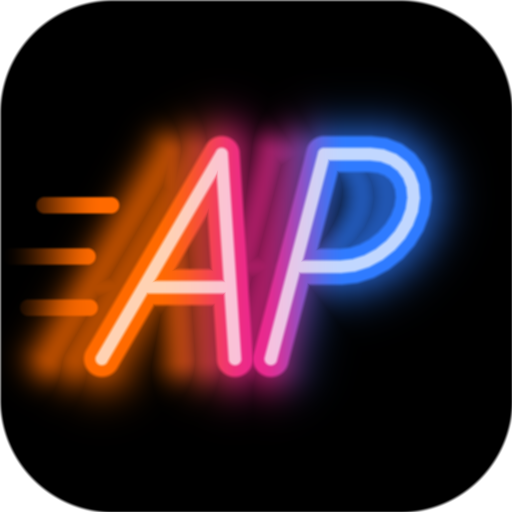
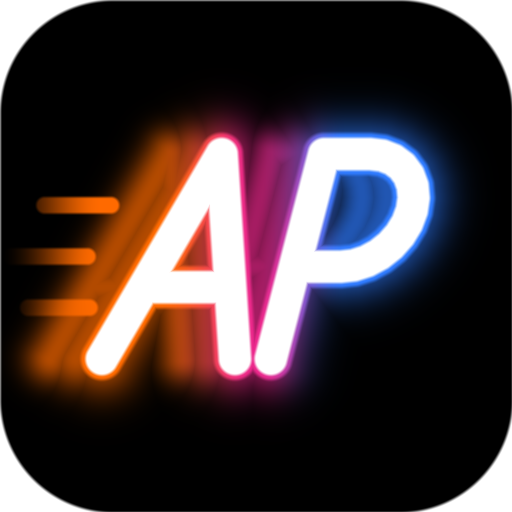
app 2.1.1: letras AP en blanco con estelas y resplandor neón (icono y pantalla de carga)

Changed region(s): [[0.1562, 0.25, 0.875, 0.75]]

diff --git a/index.html b/index.html
@@ -7,18 +7,31 @@
   <meta name="theme-color" content="#000000">
   <meta name="description" content="Nutrición y running personal">
   <link rel="manifest" href="manifest.webmanifest">
-  <link rel="icon" href="icons/icon-192.png?v=2">
-  <link rel="apple-touch-icon" href="icons/icon-192.png?v=2">
-  <link rel="stylesheet" href="style.css?v=2.1.0">
+  <link rel="icon" href="icons/icon-192.png?v=3">
+  <link rel="apple-touch-icon" href="icons/icon-192.png?v=3">
+  <link rel="stylesheet" href="style.css?v=2.1.1">
 </head>
 <body data-sec="nutri">
   <!-- Pantalla de carga: monograma AP en blanco + rueda de 3 s con los colores del icono -->
   <div id="splash" aria-hidden="true">
-    <svg class="sp-logo" viewBox="0 0 100 100">
-      <g transform="translate(50 50) skewX(-14.6) translate(-50 -50)" fill="none" stroke="#fff" stroke-width="4.2" stroke-linecap="round" stroke-linejoin="round">
-        <path d="M25 70 L38 30 L51 70 M30 56 H46"/>
-        <path d="M58 70 V30 H67 A11 11 0 0 1 67 52 H58"/>
-        <path d="M6 40 H19 M2 50 H17 M8 60 H20" stroke-width="2.4" opacity=".55"/>
+    <svg class="sp-logo" viewBox="0 0 100 100" overflow="visible">
+      <defs>
+        <linearGradient id="spNeon" gradientUnits="userSpaceOnUse" x1="0" y1="0" x2="80" y2="0">
+          <stop offset="0" stop-color="#ff6a00"/><stop offset=".55" stop-color="#ec288c"/><stop offset="1" stop-color="#2f7bff"/>
+        </linearGradient>
+        <filter id="spBlur" x="-30%" y="-30%" width="160%" height="160%"><feGaussianBlur stdDeviation="3"/></filter>
+      </defs>
+      <g transform="translate(50 50) skewX(-14.6) translate(-50 -50)" fill="none" stroke-linecap="round" stroke-linejoin="round">
+        <!-- estelas de velocidad y resplandor en neón -->
+        <g stroke="url(#spNeon)" class="sp-estela">
+          <path d="M6 40 H19 M2 50 H17 M8 60 H20" stroke-width="2.6"/>
+          <g filter="url(#spBlur)" stroke-width="5" opacity=".8">
+            <path d="M20 70 L33 30 L46 70 M53 70 V30 H62 A11 11 0 0 1 62 52 H53" opacity=".5"/>
+            <path d="M25 70 L38 30 L51 70 M30 56 H46 M58 70 V30 H67 A11 11 0 0 1 67 52 H58"/>
+          </g>
+        </g>
+        <!-- letras en blanco -->
+        <path d="M25 70 L38 30 L51 70 M30 56 H46 M58 70 V30 H67 A11 11 0 0 1 67 52 H58" stroke="#fff" stroke-width="4.2"/>
       </g>
     </svg>
     <svg class="sp-ring" viewBox="0 0 100 100">
@@ -87,6 +100,6 @@
 
   <div id="inmersion" hidden></div>
   <div class="toast" id="toast" hidden></div>
-  <script src="app.js?v=2.1.0"></script>
+  <script src="app.js?v=2.1.1"></script>
 </body>
 </html>

diff --git a/style.css b/style.css
@@ -673,3 +673,5 @@ body[data-sec="ajustes"] #btn-ajustes { background: rgba(255,255,255,.4); }
 .sp-arc { stroke-dasharray: 264; stroke-dashoffset: 264; animation: spFill 3s cubic-bezier(.45,.05,.35,1) forwards, spGlow 1.2s ease-in-out infinite alternate; }
 @keyframes spFill { to { stroke-dashoffset: 0; } }
 @keyframes spGlow { to { filter: drop-shadow(0 0 4px rgba(236,40,140,.8)); } }
+.sp-estela { animation: spEstela 1.4s ease-in-out infinite alternate; }
+@keyframes spEstela { from { opacity: .7; transform: translateX(-2px); } to { opacity: 1; transform: translateX(1px); } }

diff --git a/sw.js b/sw.js
@@ -1,5 +1,5 @@
 // Service worker: guarda la "carcasa" de la app para que abra al instante. Los datos (api.github.com) nunca se cachean.
-const CACHE = 'agente-v2.1.0';
+const CACHE = 'agente-v2.1.1';
 const SHELL = ['./', 'index.html', 'style.css', 'app.js', 'manifest.webmanifest', 'icons/icon-192.png', 'icons/icon-512.png', 'icons/maskable-512.png'];
 
 self.addEventListener('install', e => {

diff --git a/app.js b/app.js
@@ -2,7 +2,7 @@
 // Agente Running — PWA. Lee y escribe los CSV del repo privado vía API de GitHub.
 // Fotos: Gemini (plan gratuito, clave del usuario). Códigos de barras: Open Food Facts.
 
-const VERSION = '2.1.0';
+const VERSION = '2.1.1';
 const TZ = 'Europe/Madrid';
 const FILES = {
   perfil: 'perfil.md', plan: 'running/plan.md',
